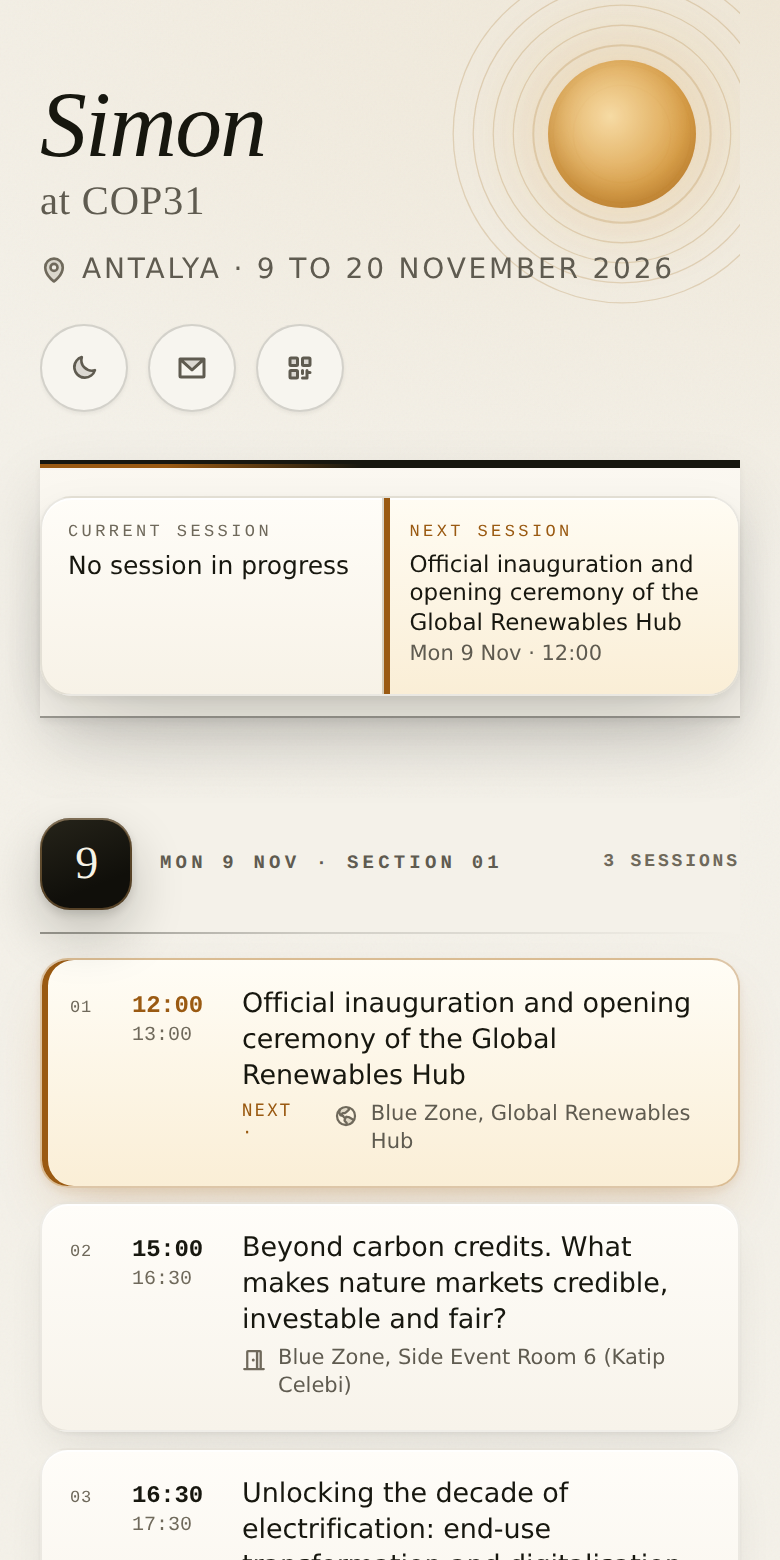
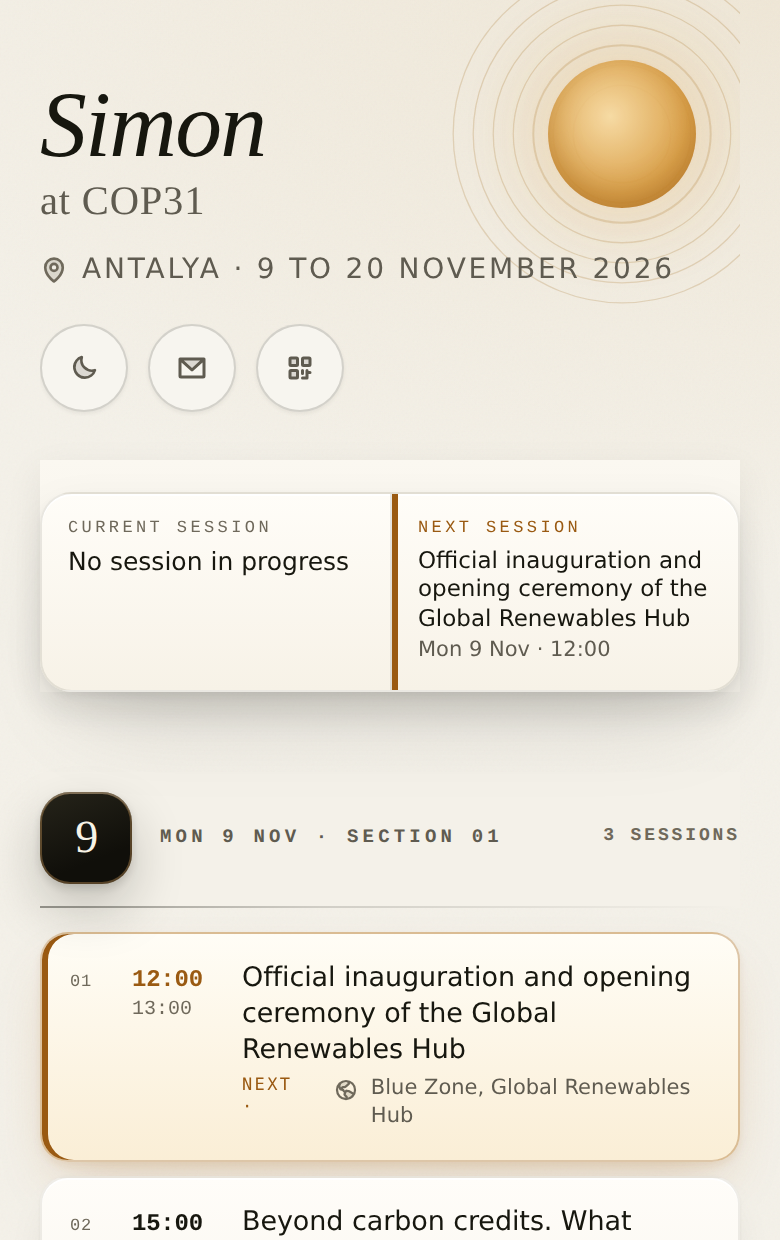
Status band: one flat card colour, no tint, no rule, flat page background

diff --git a/docs/index.html b/docs/index.html
@@ -57,15 +57,10 @@ a{color:inherit}
 @media (prefers-reduced-motion:reduce){*{transition:none!important;animation:none!important}}
 
 /* masthead: stylistic, no information devices (S1 sunrise) */
-body{background:
-  radial-gradient(1200px 620px at 12% -12%, #fdfaf3 0%, transparent 60%),
-  radial-gradient(900px 520px at 100% 0%, #efe7d7 0%, transparent 55%),
-  var(--paper)}
-html[data-theme="dark"] body{background:
-  radial-gradient(1100px 560px at 12% -10%, #1d1b13 0%, transparent 62%),
-  radial-gradient(820px 460px at 100% 0%, #191811 0%, transparent 58%),
-  var(--paper)}
+body{background:var(--paper)}
+html[data-theme="dark"] body{background:var(--paper)}
 header{position:relative;padding:26px 0 2px;overflow:hidden}
+/* the page is one colour. The only warmth left is the sun's own glow. */
 .s1sun{position:absolute;right:-34px;top:-26px;width:186px;height:186px;
   color:rgba(154,100,18,.20);pointer-events:none}
 .s1sun svg{width:100%;height:100%;display:block}
@@ -144,11 +139,10 @@ h1{font-weight:400;font-size:clamp(34px,9vw,54px);line-height:.95;letter-spacing
 
 /* sticky status band */
 .live{position:sticky;top:0;z-index:30;
-  background:linear-gradient(180deg,#fbf8f1,#f4f1e9 78%);
+  background:var(--paper);
   margin:22px 0 0;padding:calc(8px + env(safe-area-inset-top,0px)) 0 0;
-  box-shadow:0 6px 18px rgba(23,23,15,.07)}
-html[data-theme="dark"] .live{background:linear-gradient(180deg,#191811,#14140f 78%);
-  box-shadow:0 10px 26px rgba(0,0,0,.5)}
+  box-shadow:none}
+html[data-theme="dark"] .live{background:var(--paper);box-shadow:none}
 .idbar{display:none;align-items:center;justify-content:space-between;gap:10px;padding-bottom:9px}
 body.h1-gone .idbar{display:flex}
 .who{font-size:13.5px;letter-spacing:-.01em;white-space:nowrap;overflow:hidden;text-overflow:ellipsis}
@@ -166,15 +160,15 @@ html:not([data-theme="dark"]) .themebtn .ic-sun{display:none}
 
 .strip{display:grid;grid-template-columns:1fr 1fr;
   margin:8px 0 10px;border:1px solid rgba(23,23,15,.09);border-radius:16px;overflow:hidden;
-  background:linear-gradient(180deg,#fffdf8,#f7f2e7);
-  box-shadow:inset 0 1px 0 rgba(255,255,255,.9),0 2px 4px rgba(23,23,15,.05),
+  background:#fdfbf5;
+  box-shadow:inset 0 1px 0 rgba(255,255,255,.95),0 2px 4px rgba(23,23,15,.05),
     0 10px 24px rgba(23,23,15,.08),0 26px 50px -22px rgba(23,23,15,.18)}
 .cell{min-width:0;display:flex;flex-direction:column;gap:3px;padding:11px 13px 12px}
 .cell + .cell{border-left:1px solid rgba(23,23,15,.10)}
 .strip.is-empty{grid-template-columns:1fr 1fr}
 
 html[data-theme="dark"] .strip{border-color:rgba(242,239,230,.10);
-  background:linear-gradient(180deg,#1e1d16,#191811);box-shadow:inset 0 1px 0 rgba(255,255,255,.05),
+  background:#1e1d17;box-shadow:inset 0 1px 0 rgba(255,255,255,.05),
     0 10px 24px rgba(0,0,0,.4)}
 .cell .k{font-size:8.5px;letter-spacing:.2em;text-transform:uppercase;color:var(--faint)}
 .cell .v{font-size:12.5px;line-height:1.3;font-weight:540;
@@ -373,7 +367,7 @@ footer{margin:30px 0 0}
     <span class="left"><svg class="ic-btn" aria-hidden="true"><use href="#i-map-trifold"></use></svg> Blue Zone map, PDF</span>
     <span class="ext"><svg class="ic-ext" aria-hidden="true"><use href="#i-arrow-square-out"></use></svg></span>
   </a>
-  <p class="colophon"><span>UTC+3 &middot; 55 sessions &middot; updated 8 Nov, 10:58</span></p>
+  <p class="colophon"><span>UTC+3 &middot; 55 sessions &middot; updated 8 Nov, 11:11</span></p>
 </footer>
 </main>
 
